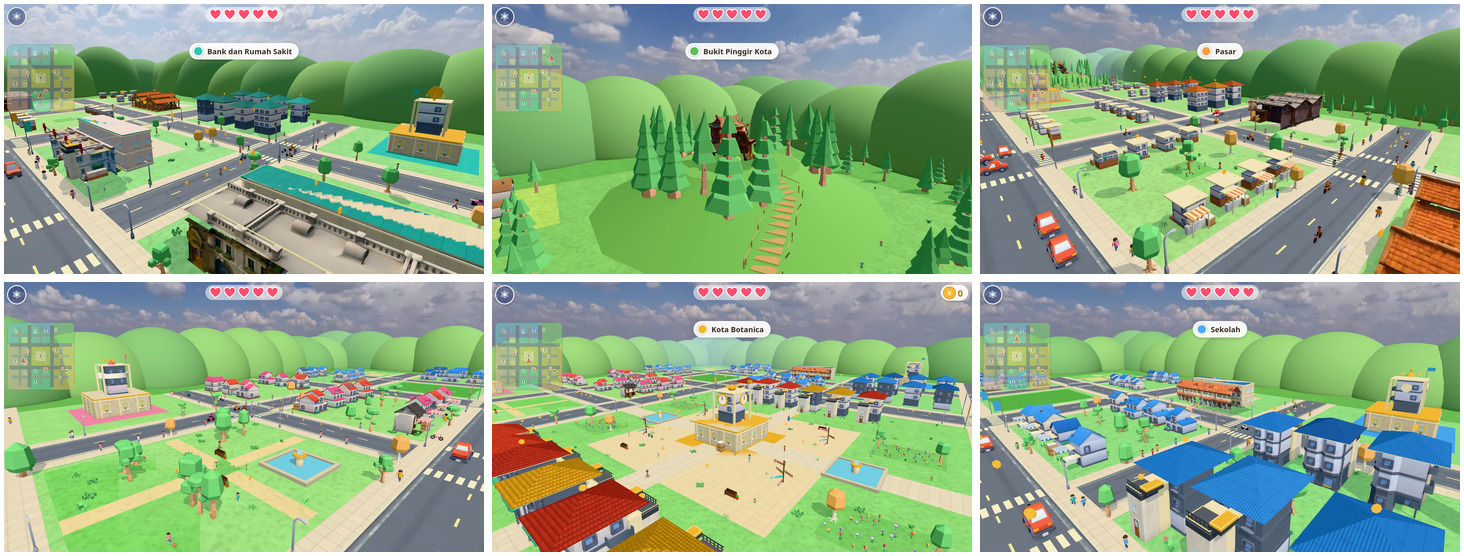
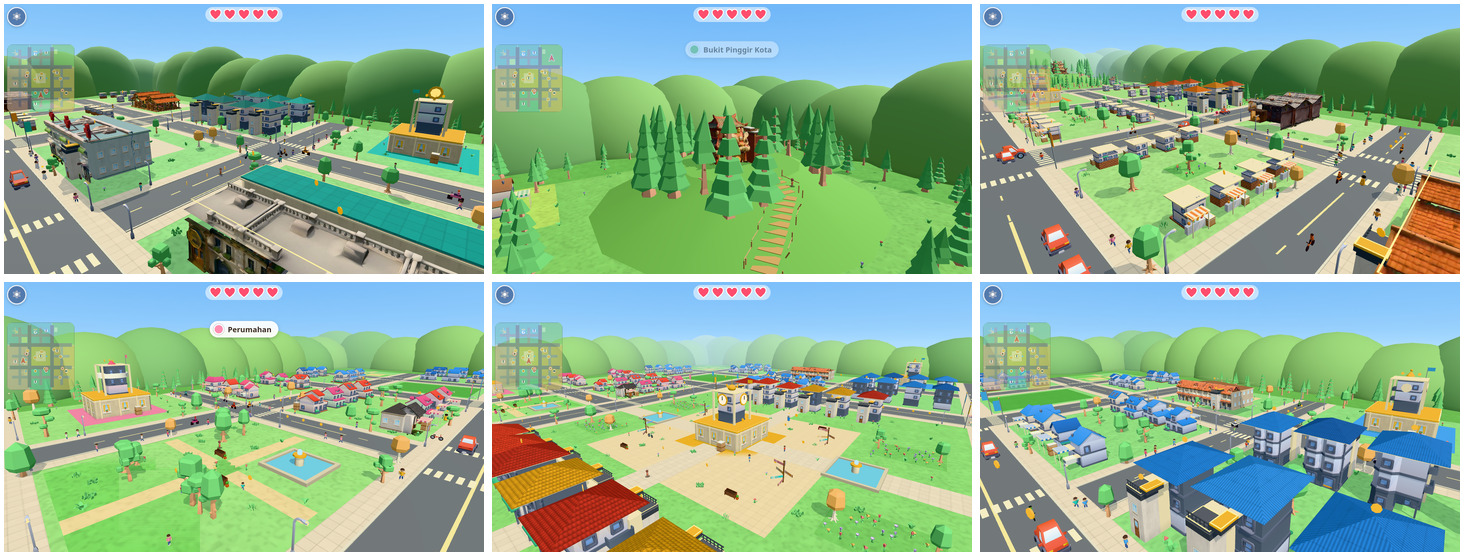
docs: finalize C2 visual review evidence

diff --git a/docs/c2-city-look.md b/docs/c2-city-look.md
@@ -1,33 +1,41 @@
-# C2 city look — work in progress
+# C2 city look — review ready
 
-The city uses uniform model scaling, collider-aligned architectural supports, brighter daylight, detailed podiums and crossings, rounded distant hills, and rounder instanced pedestrians. Touch minimap placement and HUD checks include zoom controls.
+The city now uses uniform model scaling, collider-aligned architecture and climbing supports, a brighter blue daylight sky, pastel district colours, Kenney road modules, detailed podiums and crossings, rounded distant hills, and friendlier round instanced pedestrians. The seven owner buildings remain in place; added side/end cladding closes the visible holes in the school, hospital, and Glen's house. The old Barongsai building keeps its complete lion face and door, with its climbing structure visibly supported.
 
-Current validation: `npm run build` PASS; `npm run check:reach` PASS (0 errors, 0 warnings). CityData, gameplay, story and audio are unchanged.
-
-Quiz validation and kota-touch PASS. The app now explicitly uses its existing logo as the favicon, fixing the missing favicon request. City rendering skips the extra GTAO/bloom chain to share the touch daylight pipeline.
+Touch and desktop share the same daylight rendering. The touch minimap has moved clear of the joystick and laser control, and HUD checks cover the minimap, joystick, dialog, and both zoom buttons.
 
 Review: [PR #24](https://github.com/arsenick04/superglen/pull/24), branch `codex/c2-city-look`.
-
-Latest reruns: `kota` PASS, `bab1` PASS, `kota-life` PASS. The busiest desktop crowd view now renders at 44 calls / 403,090 triangles, within the unchanged 70 / 480,000 budgets after removing the additional city post pass.
-
-Touch hud-layout now PASS. Its exploration setup waits for the arrival greeting and the dialog's idle tail to finish; dialog measurement waits for the visible pop-in. This exposed a real map/laser overlap, fixed by moving the map to the upper left (164 px from the safe inset). All presence, bounds, overlap and 44 px zoom target assertions remain strict. Desktop hud-layout previously PASS; rerun after the shared test setup update is pending.
-
-Reproduce the visual views with the dev server running: `C2_PHASE=review node scripts/city-look-shots.cjs`. It captures six identical city views plus a Barongsai close-up on desktop and touch, under `/tmp/c2-shots/review`.
 
 ## Before / after
 
 Desktop views, ordered bank/hospital, hill, market, housing, plaza, school:
 
 ![Before desktop](c2/before-desktop.jpg)
-![Current desktop](c2/after-desktop.jpg)
+![After desktop](c2/after-desktop.jpg)
 
 ![Before touch](c2/before-touch.jpg)
-![Current touch](c2/after-touch.jpg)
+![After touch](c2/after-touch.jpg)
 
-## Still open
+Close-up evidence:
 
-- Final close-up review of all seven owner buildings, especially Barongsai door/lion-face and climbing attachments.
-- Repeat affected smoke groups after the remaining visual edits, one group at a time.
-- Verify final screenshots against the latest source; these contact sheets show the preceding visual iteration.
-- Kenney road tile integration and richer near-ground detail need further review.
-- Real iPhone performance and final owner visual approval remain unverified.
+![School, hospital, and Glen building sides](c2/building-sides.jpg)
+![Glen north side and original doors](c2/glen-north-proof.png)
+![Old Barongsai building](c2/barongsai-close.png)
+
+Reproduce the views with a dev server running: `C2_PHASE=review node scripts/city-look-shots.cjs`.
+
+## Validation
+
+- `npm run build` — PASS
+- `npm run check:reach` — PASS (0 errors, 0 warnings)
+- `npm run check:quiz` — PASS
+- Smoke groups, run one at a time: `kota`, `kota-touch`, `kota-life`, `hud-layout`, `hud-layout-touch`, and `bab1` — PASS
+- Busiest reviewed desktop crowd view: 44 calls / 403,208 triangles, within the unchanged 70 / 480,000 budgets.
+
+CityData, gameplay, story, and audio are unchanged in this PR.
+
+## Open review items
+
+- The added side/back cladding is intentionally simpler than the detailed front scans; joins can still be visible at close range.
+- Facade modules repeat on unusually wide lots to avoid stretched geometry.
+- Real-iPhone frame rate and final owner visual approval still require a physical-device review; headless Chromium is not a reliable iPhone performance measurement.

diff --git a/PROGRESS.md b/PROGRESS.md
@@ -1,13 +1,12 @@
 # PROGRESS Superglen
 
-## C2 city look (16 November 2026): masih dikerjakan
+## C2 city look (17 November 2026): siap direview
 
-- Branch `codex/c2-city-look`: skala model seragam, dukungan pijakan, pencahayaan kota, podium/jalan/bukit, warga membulat, posisi minimap sentuh dan pemeriksaan zoom. Ringkasan dan gambar sebelum/sesudah: `docs/c2-city-look.md`.
-- Build, check:reach (0 error/warning), check:quiz, kota-touch, hud-layout desktop dan bab1 lulus. Kota-life desktop sebelumnya gagal anggaran grafik; jalur render kota kini disamakan dengan touch dan menunggu tes ulang. HUD touch masih perlu verifikasi setelah sinkronisasi frame pengukuran.
-- Branch sudah dipush, PR #24 dibuat pemilik. Tidak ada perubahan gameplay/cerita/audio atau CityData.
-- Untuk dicoba setelah review: bandingkan semua gedung dari dekat; pintu/wajah singa Barongsai; minimap/joystick/zoom di iPhone. C2 belum dinyatakan selesai.
-- Tes ulang kota dan kota-life lulus setelah renderer disamakan (44 calls / 403.090 segitiga). HUD touch masih gagal: peta/zoom dan kartu dialog tidak terlihat pada kondisi pengukuran, meskipun tidak ada bounding box bertumpuk. Hipotesis sinkronisasi frame tidak menyelesaikan masalah; perubahan percobaannya dibuang.
-- Lanjutan: HUD touch kini LULUS. Persiapan tes menyelesaikan dialog sambutan beserta jeda penutupnya dan menunggu animasi tampil. Overlap nyata minimap/tombol laser ditemukan lalu diperbaiki dengan posisi peta kiri atas. Semua assertion tetap ketat. Skrip `scripts/city-look-shots.cjs` menyimpan kamera review yang dapat diulang.
+- Branch `codex/c2-city-look`, PR #24. Gedung pemilik sudah dipasang tanpa peregangan non-uniform; sisi sekolah, rumah sakit, dan rumah Glen ditutup; wajah singa/pintu Barongsai utuh; semua elemen panjat terlihat tersambung.
+- Kota memakai langit biru dan daylight yang lebih cerah, warna distrik pastel, modul jalan Kenney, detail podium/kerb/crossing, bukit membulat, serta warga instanced yang lebih ramah. Touch dan desktop memakai tone yang sama.
+- Minimap touch dipindah dari joystick/laser. Pemeriksaan HUD mencakup joystick, dialog, minimap, dan kedua tombol zoom.
+- `build`, `check:reach` (0 error/warning), `check:quiz`, serta smoke `kota`, `kota-touch`, `kota-life`, `hud-layout`, `hud-layout-touch`, dan `bab1` semuanya lulus. View crowd tersibuk: 44 calls / 403.208 segitiga, di bawah batas 70 / 480.000.
+- Gambar sebelum/sesudah dan close-up: `docs/c2-city-look.md`. Yang tersisa hanya review visual/FPS pada iPhone fisik; angka headless bukan pengukuran perangkat asli.
 
 ## Paket malam A1 (11 November 2026): selesai
 
